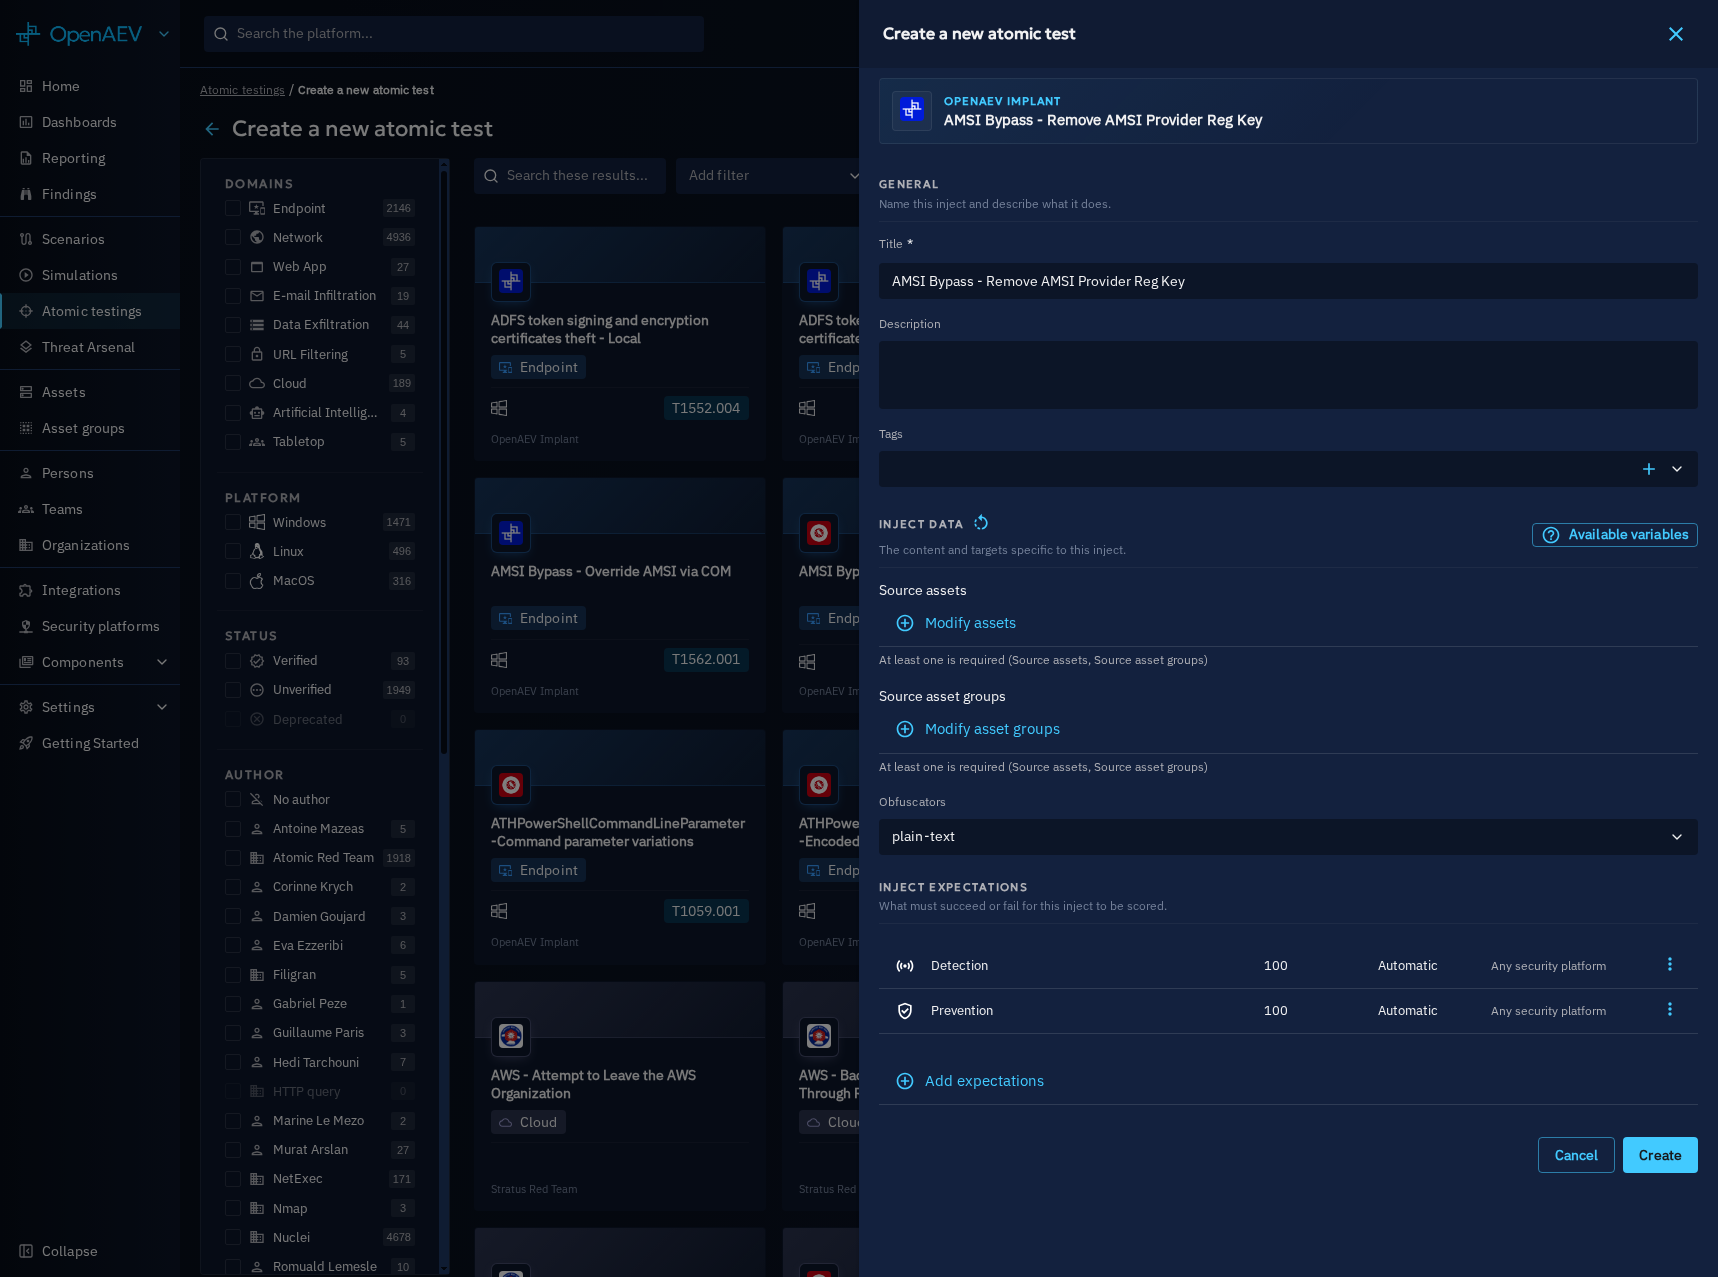
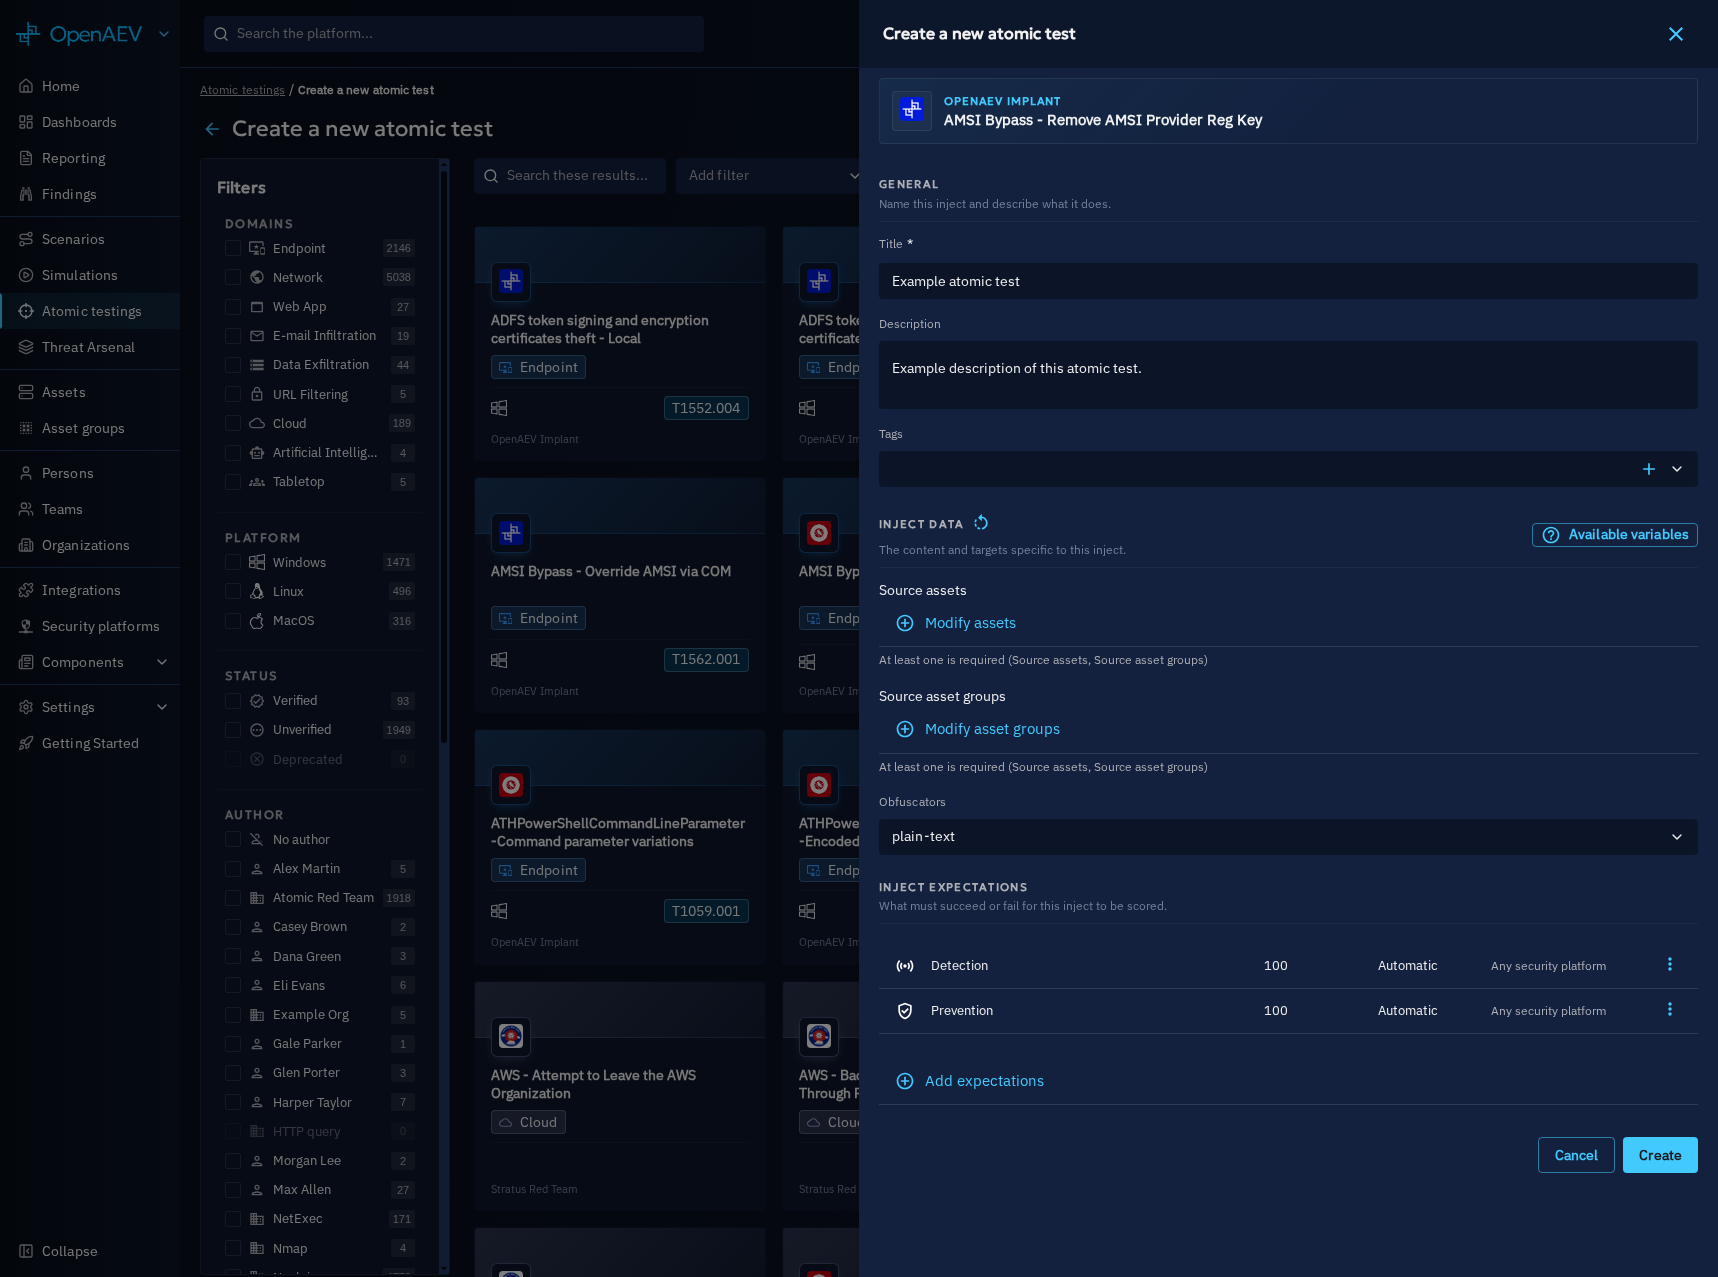
docs: fix documentation gaps (#9486)

diff --git a/docs/docs/reference/deployment/configuration.md b/docs/docs/reference/deployment/configuration.md
@@ -176,6 +176,22 @@ The value in force is resolved in this order:
 | agent_queue_threshold              | openaev.agent.queue-threshold                | OPENAEV_AGENT_QUEUE_THRESHOLD                | 0       | 0 to 10000  | Pending jobs after which an agent is overloaded and skipped by new injects. `0` disables the check. |
 | agent_auto_update_enabled          | executor.openaev.agent.auto-update-enabled   | EXECUTOR_OPENAEV_AGENT_AUTO_UPDATE_ENABLED   | true    | true, false | When `false`, agents are not upgraded when a new platform version is deployed. Enterprise Edition only. |
 
+#### Expectations expiration manager
+
+The expectations expiration manager is a built-in collector. At a fixed interval, it sets the result of the expectations whose expiration time has passed and that no Collector or security platform filled.
+
+| Parameter                                         | Environment variable                              | Default value | Description |
+|:--------------------------------------------------|:--------------------------------------------------|:--------------|:------------|
+| collector.expectations-expiration-manager.enable     | COLLECTOR_EXPECTATIONS-EXPIRATION-MANAGER_ENABLE     | `true`        | Enables the expectations expiration manager. |
+| collector.expectations-expiration-manager.interval   | COLLECTOR_EXPECTATIONS-EXPIRATION-MANAGER_INTERVAL   | 60            | Interval in seconds between two runs. The first run starts 30 seconds after startup. |
+| collector.expectations-expiration-manager.batch-size | COLLECTOR_EXPECTATIONS-EXPIRATION-MANAGER_BATCH-SIZE | 1000          | Maximum number of expectations expired per run and per tenant. |
+
+#### Attack chaining
+
+| Parameter                        | Environment variable             | Default value | Description |
+|:---------------------------------|:---------------------------------|:--------------|:------------|
+| openaev.chaining.max-retry-count | OPENAEV_CHAINING_MAX-RETRY-COUNT | 5             | Maximum number of times a chaining event is re-queued after a failed transaction. Past this number, the event is not re-queued again. |
+
 {% if feature_visible("CREDENTIAL_ASSET") %}
 #### Credential status validation
 
@@ -310,6 +326,20 @@ Tuning parameters applicable to both engines:
 | engine.indexing-misfire-threshold-ms     | ENGINE_INDEXING_MISFIRE_THRESHOLD_MS     | 120000        | Threshold in milliseconds after which a model synchronisation is declared misfired and is rescheduled.                                                                                                                                                             |
 | engine.indexing-reset-epoch-reassert-delay-seconds | ENGINE_INDEXING_RESET_EPOCH_REASSERT_DELAY_SECONDS | 180 | Delay in seconds after which an instance that reset an index during a rolling deploy re-asserts the indexing cursor of that model, so a stale cursor written by an instance still running an older version does not skip rows. Must exceed the longest indexing round. Set to `0` to disable once every instance runs OpenAEV 3.261001.0 or later. |
 | engine.indexing-refeed-reassert-delay-seconds | ENGINE_INDEXING_REFEED_REASSERT_DELAY_SECONDS | 1800 | Delay in seconds after which the instance that applied an upgrade re-feeding an index in place (for example the findings index, to mask the sensitive values indexed before) re-feeds it a second time. During a rolling deploy, instances still running the previous version take part in the first re-feed and write their own documents, such as finding values in cleartext; the second re-feed rewrites them. Set it longer than your longest rolling deploy plus one indexing round (15 seconds). Set to `0` to skip the second re-feed, which is safe when a single instance runs. |
+| engine.connect-timeout-ms                | ENGINE_CONNECT_TIMEOUT_MS                | 5000          | Connect timeout of the Elasticsearch clients and the engine auto-detection probe, in milliseconds. Does not configure the OpenSearch transport. |
+| engine.socket-timeout-ms                 | ENGINE_SOCKET_TIMEOUT_MS                 | 60000         | Socket (response) timeout of the Elasticsearch clients and response timeout of the engine auto-detection probe, in milliseconds. Does not configure the OpenSearch transport. |
+| engine.max-connections                   | ENGINE_MAX_CONNECTIONS                   | 40            | Maximum concurrent connections of the Elasticsearch clients, applied to both the per-route and total limits. Does not configure the OpenSearch transport. |
+| engine.reject-unauthorized               | ENGINE_REJECT_UNAUTHORIZED               | `true`        | Verify the TLS certificate of the engine. Set to `false` to trust any certificate, for example a self-signed one. |
+| engine.indexing-batch-size               | ENGINE_INDEXING_BATCH_SIZE               | 500           | Maximum number of records fetched per indexing batch. |
+| engine.indexing-max-concurrent-models    | ENGINE_INDEXING_MAX_CONCURRENT_MODELS    | 3             | Maximum number of models whose indexing runs at the same time. Each indexing round holds a database connection, so a higher value uses more of the connection pool. Values below `1` are treated as `1`. |
+| engine.index-suffix                      | ENGINE_INDEX_SUFFIX                      | -000001       | Suffix of the first index of each rollover alias. |
+| engine.number-of-shards                  | ENGINE_NUMBER_OF_SHARDS                  | 1             | Number of primary shards of each index. Applied when an index is created. |
+| engine.number-of-replicas                | ENGINE_NUMBER_OF_REPLICAS                | 1             | Number of replica shards of each index. Applied when an index is created. |
+| engine.max-result-window                 | ENGINE_MAX_RESULT_WINDOW                 | 100000        | `max_result_window` setting of each index (maximum depth of pagination). Applied when an index is created. |
+| engine.max-fields-size                   | ENGINE_MAX_FIELDS_SIZE                   | 4096          | Maximum number of fields of an index mapping (`mapping.total_fields.limit`). Applied when an index is created. |
+| engine.max-primary-shard-docs            | ENGINE_MAX_PRIMARY_SHARD_DOCS            | 75000000      | Document-count rollover threshold: documents in the largest primary shard for Elasticsearch (`max_primary_shard_docs`), or total documents across the index for OpenSearch (`min_doc_count`). |
+| engine.max-primary-shards-size           | ENGINE_MAX_PRIMARY_SHARDS_SIZE           | 50Gb          | Rollover condition of the index lifecycle policy: maximum size of a primary shard. |
+| engine.search-cap                        | ENGINE_SEARCH_CAP                        | 500           | Maximum number of results a search across the platform indices returns. |
 
 !!! note "Re-feed of the Findings index after an upgrade"
 
@@ -349,6 +379,29 @@ Tuning parameters applicable to both engines:
 | openaev.rabbitmq.trust-store          | OPENAEV_RABBITMQ_TRUST_STORE          |                                   | Path to the p12 trust store (for example `file:/path/to/truststore.p12`) with the CA of the RabbitMQ server certificate. Used when SSL is on. When empty, the platform trust store applies: the JVM default trust store plus the certificates of `openaev.extra-trusted-certs-dir`. Applies to the AMQP connection. The calls to the management plugin trust this store and the platform trust store. |
 | openaev.rabbitmq.trust-store-password | OPENAEV_RABBITMQ_TRUST-STORE-PASSWORD |                                   | Password of the keystore                                                                                                                                                          |
 | openaev.rabbitmq.publish-timeout-ms   | OPENAEV_RABBITMQ_PUBLISH-TIMEOUT-MS   | 30000                             | Hard cap in milliseconds on a single publish, so a broker that stops answering cannot hold a database transaction open. Must be strictly positive, otherwise the default applies.  |
+
+##### Queue tuning
+
+Three batch queues can be tuned with `openaev.queue-config.<queue>.<parameter>` properties, set for example in `application.properties`:
+
+- `inject-trace`: execution traces reported for Injects.
+- `workflows-ready` and `workflows-update`: events of the attack chaining engine.
+
+| Parameter        | `inject-trace` default | `workflows-ready` default | `workflows-update` default | Description |
+|:-----------------|:-----------------------|:--------------------------|:---------------------------|:------------|
+| publisher-number | 2                      | 1                         | 1                          | Number of publisher channels. |
+| consumer-number  | 8                      | 1                         | 1                          | Number of consumer channels. |
+| worker-number    | 8                      | 1                         | 1                          | Number of worker threads that process the batches. Messages are spread over the workers by key. |
+| worker-frequency | 10000                  | 10000                     | 10000                      | Interval in milliseconds at which batches that did not reach `max-size` are processed. |
+| queue-name       | inject-trace           | workflows-ready           | workflows-update           | Name of the queue, exchange and routing key, prefixed with `openaev.rabbitmq.prefix`. |
+| max-size         | 200                    | 200                       | 200                        | Number of buffered messages per worker above which the batch is processed at once. |
+| consumer-qos     | 1000                   | 1000                      | 1000                       | Prefetch count of each consumer channel (`basic.qos`). |
+| publisher-qos    | 0                      | 0                         | 0                          | Prefetch count set on each publisher channel (`basic.qos`). |
+
+For example, `openaev.queue-config.inject-trace.worker-number=16` doubles the inject trace workers.
+
+Docker users, who only configure the platform through environment variables, can set the same parameter with
+the dashed form, same as the rest of this page: `OPENAEV_QUEUE-CONFIG_INJECT-TRACE_WORKER-NUMBER=16`.
 
 #### S3 bucket
 

diff --git a/docs/docs/usage/run-and-evaluate/atomic-testing/atomic-testing.md b/docs/docs/usage/run-and-evaluate/atomic-testing/atomic-testing.md
@@ -18,13 +18,16 @@ Use the search bar and filters to narrow results.
 
 ## Create an Atomic Test
 
-1. Click the **+** button at the bottom right of the screen.
-2. On the left panel, browse the list of available Threat Arsenal Actions. Filter by kill chain phase, Injector, compatible platform, or MITRE ATT&CK tactic. Click the **ATT&CK** icon near the search bar to filter by a specific technique.
-3. Select an Action. The form on the right populates with a default title and a delay field (set to 0 for immediate execution).
+1. Click the **Create** button at the top right of the Atomic testing list. The **Create a new atomic test** page opens.
+2. Browse the Threat Arsenal Actions, shown as cards. Use the search bar, or the **Filters** panel on the left to narrow them by domain, platform, status, author, MITRE ATT&CK tactic or MITRE ATLAS tactic.
+3. Click an Action card. The **Create a new atomic test** drawer opens.
 
 ![Select a Threat Arsenal Action](assets/atomic-testing-create-select.png)
 
-4. Click **Inject content** to define the targeted Assets or Players, required configuration, and Expectations.
+4. Fill in the drawer:
+    - **General**: title (prefilled with the Action name), description and tags.
+    - **Inject data**: the targets of the Action (for example Assets or Asset groups) and the configuration it requires.
+    - **Inject expectations**: the Expectations used to score the test.
 
 ![Configure Inject content](assets/atomic-testing-create-form.png)
 

diff --git a/docs/docs/deployment/integration-manager/quick-start.md b/docs/docs/deployment/integration-manager/quick-start.md
@@ -51,6 +51,7 @@ Set configuration through environment variables:
 export COMPOSER_ENV=production
 export MANAGER__ID="my-manager-001"
 export MANAGER__CREDENTIALS_KEY_FILEPATH="/path/to/private_key_4096.pem"
+export OPENAEV__ENABLE=true
 export OPENAEV__URL="https://openaev.example.com"
 export OPENAEV__TOKEN="your-openaev-api-token"
 export OPENAEV__DAEMON__SELECTOR="kubernetes"
